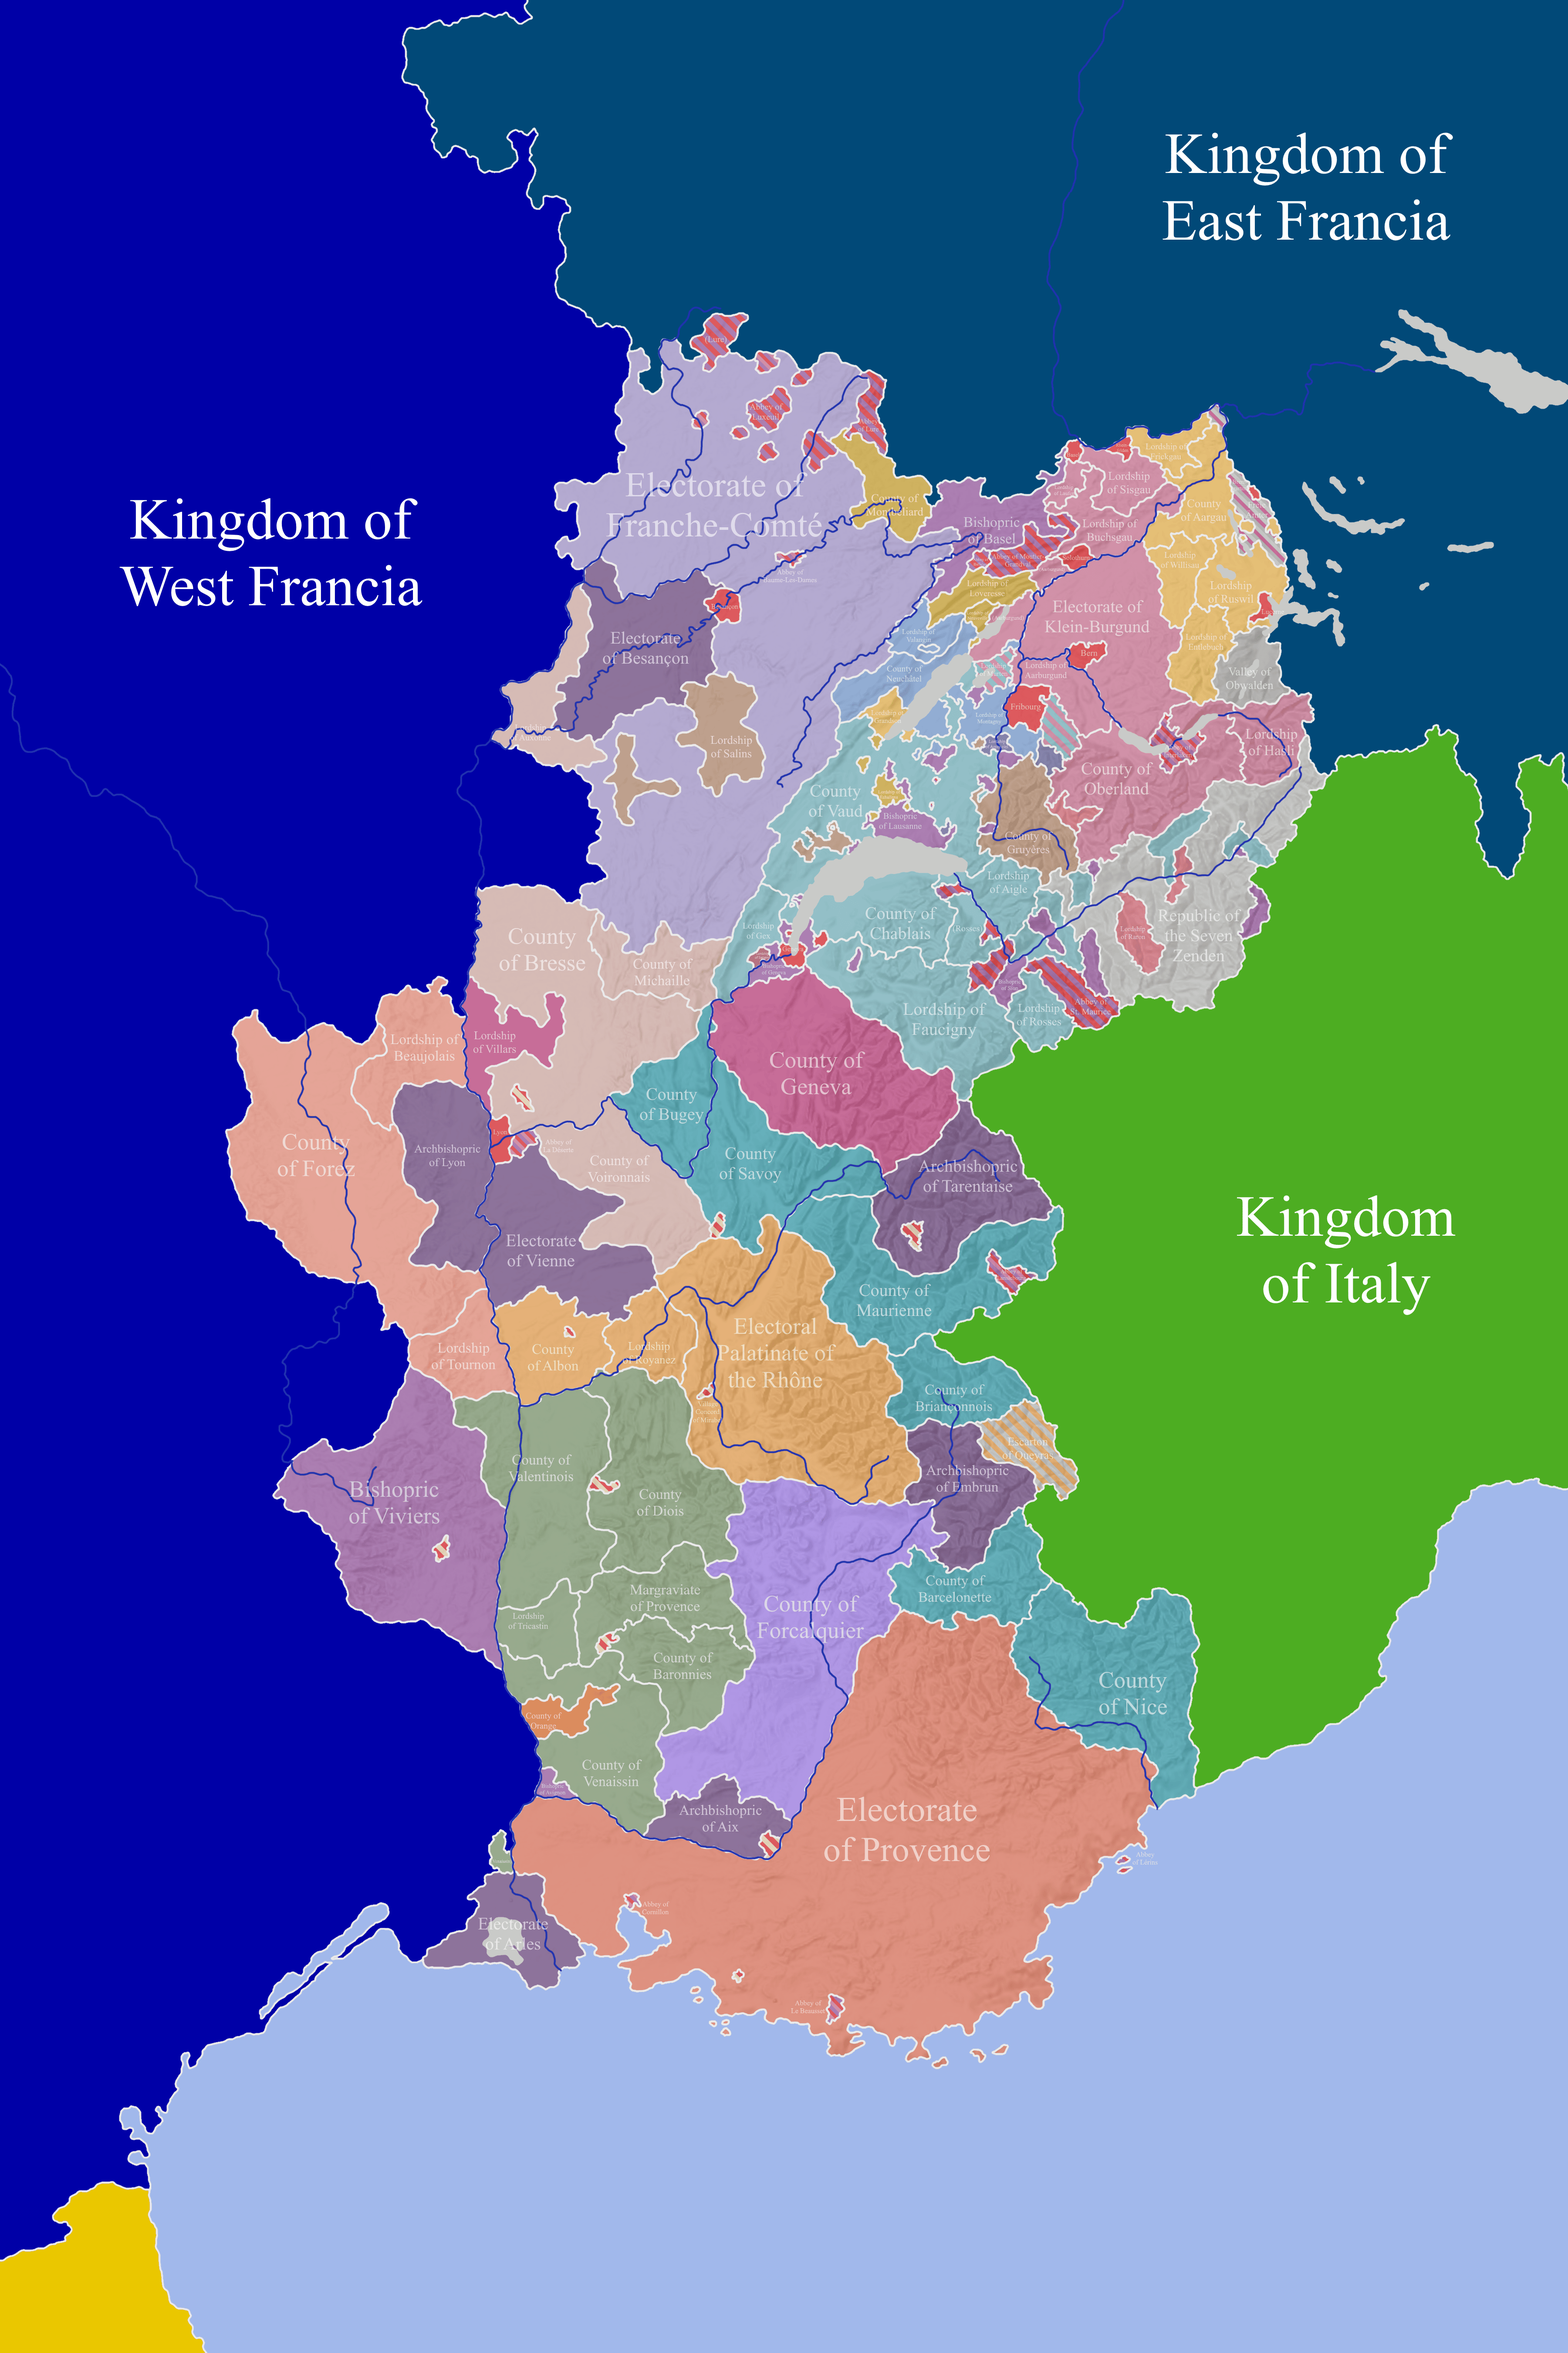
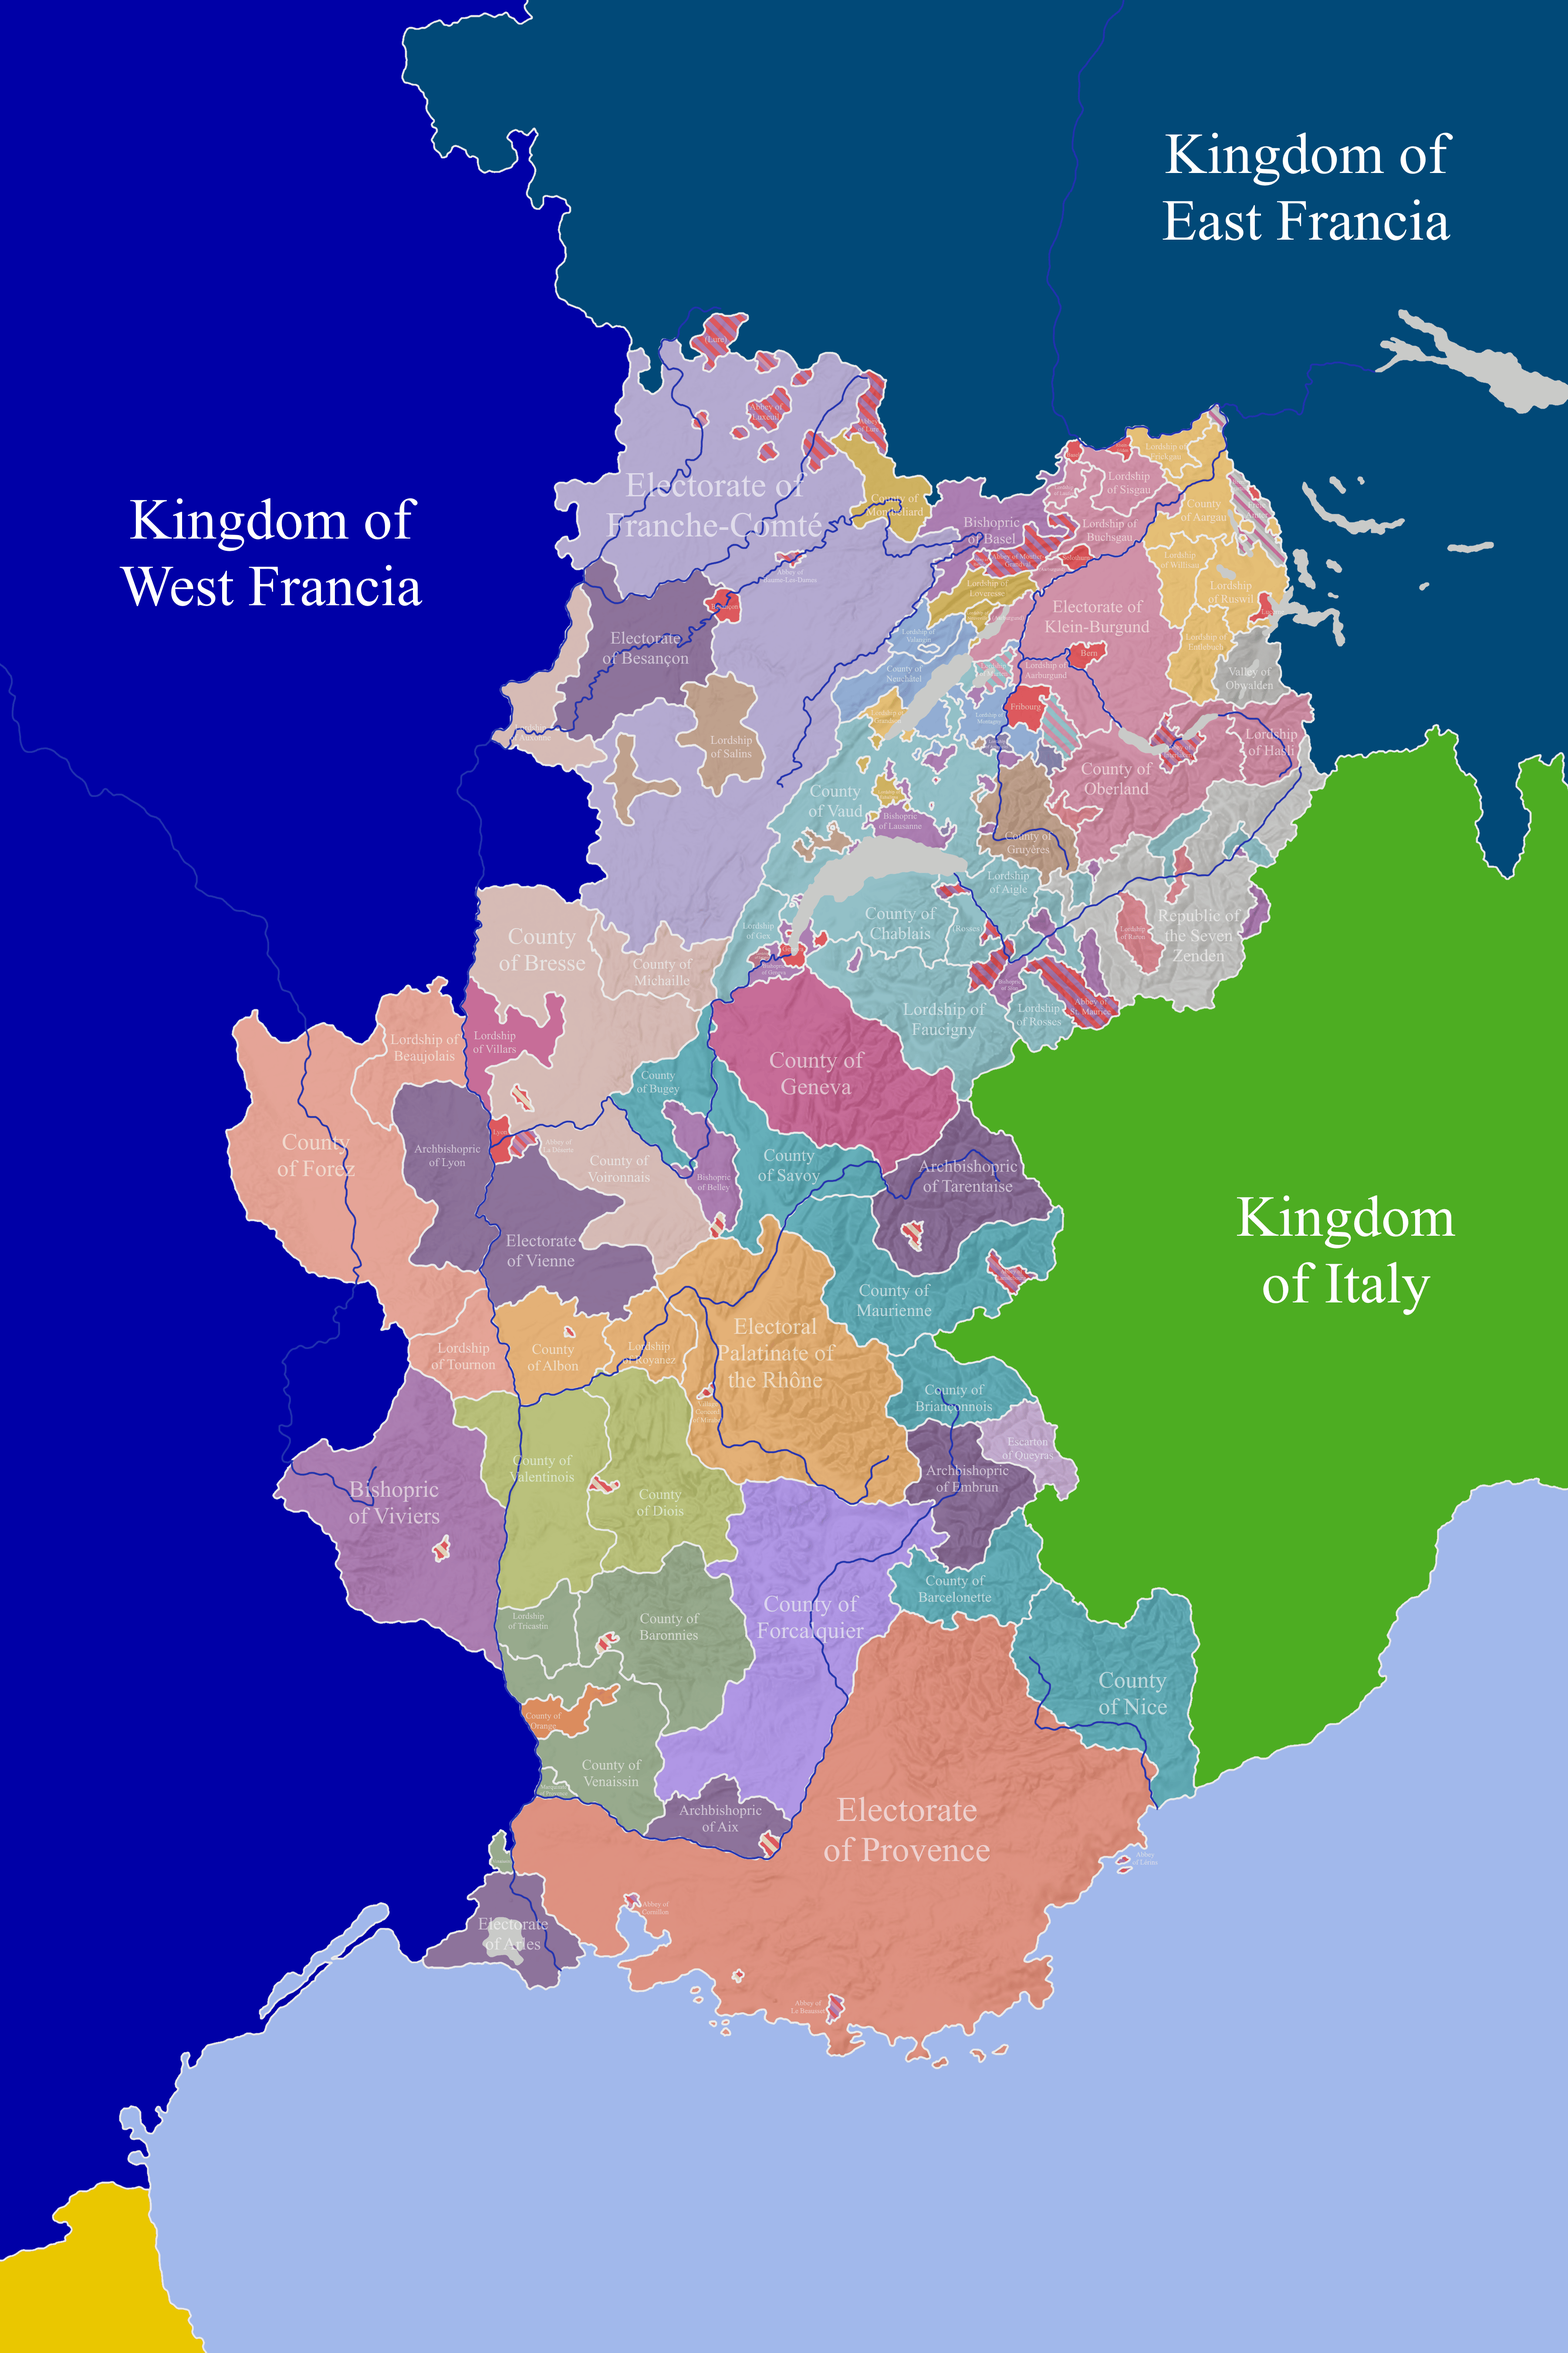
Again???

diff --git a/Generators/Arelat/Data/states.js b/Generators/Arelat/Data/states.js
@@ -154,12 +154,12 @@ types={state:[
     prestige:[],
     area:16673,
   },{
-    name:`Avignon`,
+    name:`Belley`,
     title:`Bishopric`,
     district:`Drôme`,
     rule:`Ecclesiastical`,
     prestige:[],
-    area:3092,
+    area:25192,
   },{
     name:`Viviers`,
     title:`Bishopric`,
@@ -341,14 +341,14 @@ types={state:[
     district:`Alpes`,
     rule:`Savoy`,
     prestige:[`Duke`],
-    area:82712,
+    area:63793,
   },{
     name:`Bugey`,
     title:`County`,
     district:`Alpes`,
     rule:`Savoy`,
     prestige:[],
-    area:43735,
+    area:34120,
   },{
     name:`Maurienne`,
     title:`County`,
@@ -481,7 +481,7 @@ types={state:[
     district:`Drôme`,
     rule:`Rouergue`,
     prestige:[],
-    area:114802,
+    area:114741,
   },{
     name:`Diois`,
     title:`County`,
@@ -495,14 +495,14 @@ types={state:[
     district:`Drôme`,
     rule:`Rouergue`,
     prestige:[],
-    area:47735,
+    area:101821,
   },{
     name:`Provence`,
-    title:`Margraviate`,
+    title:`Marquisate`,
     district:`Drôme`,
     rule:`Rouergue`,
     prestige:[],
-    area:51214,
+    area:3084,
   },{
     name:`Venaissin`,
     title:`County`,
@@ -744,19 +744,13 @@ types={state:[
     rule:`Burghers`,
     prestige:[],
   },{
-    name:`Transjurania`,
+    name:`Upper Burgundy`,
     title:`Abbey Bench`,
     district:`Franche-Comté`,
     rule:`Ecclesiastical`,
     prestige:[],
   },{
-    name:`Alpine`,
-    title:`Abbey Bench`,
-    district:`Romandie`,
-    rule:`Ecclesiastical`,
-    prestige:[],
-  },{
-    name:`Provence`,
+    name:`Lower Burgundy`,
     title:`Abbey Bench`,
     district:`Provence`,
     rule:`Ecclesiastical`,
@@ -829,4 +823,4 @@ types={state:[
     prestige:[`Elector`,`Duke`],
   },
 ]}
-types.state.forEach(state=>{if([`County`,`Landgraviate`,`Margraviate`,`Archbishopric`,`County Palatine`,`Princessate`].includes(state.title)||state.title==`Bishopric`&&(state.name==`Viviers`||state.name==`Basel`)){types.diet.push(state)}})
+types.state.forEach(state=>{if([`County`,`Landgraviate`,`Margraviate`,`Marquisate`,`Archbishopric`,`County Palatine`,`Princessate`].includes(state.title)||state.title==`Bishopric`&&(state.name==`Viviers`||state.name==`Basel`||state.name==`Belley`)){types.diet.push(state)}})
